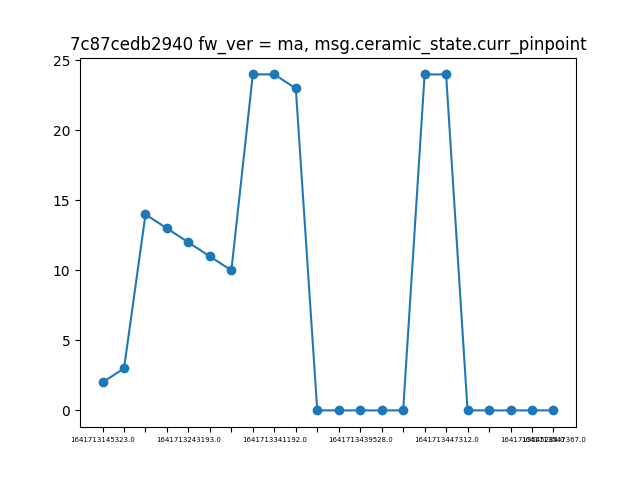
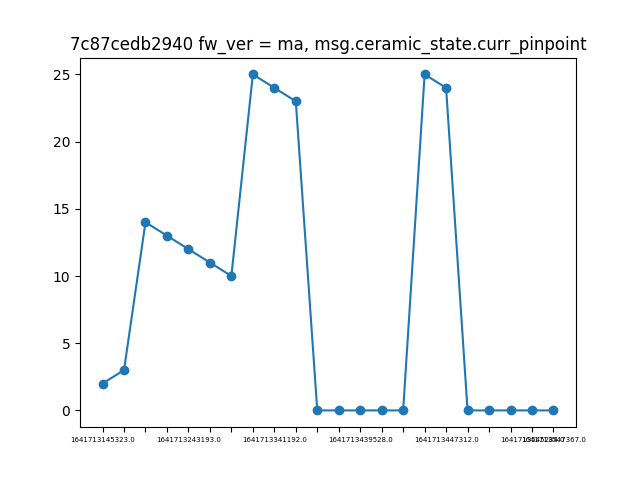
add

diff --git a/json_convert_to_csv/sender_info.py b/json_convert_to_csv/sender_info.py
@@ -45,12 +45,12 @@ def save_f(_topic, _data_list, _device):
         if num == 0:
             num += 1
         else:
-            if data[11] == '':
+            if data[13] == '':
                 x_list.append(data[2])
                 y_list.append(0.0)
             else:
                 x_list.append(data[2])
-                y_list.append(float(data[11]))
+                y_list.append(float(data[13]))
     
     x_list.pop(0)
     y_list.pop(0)
